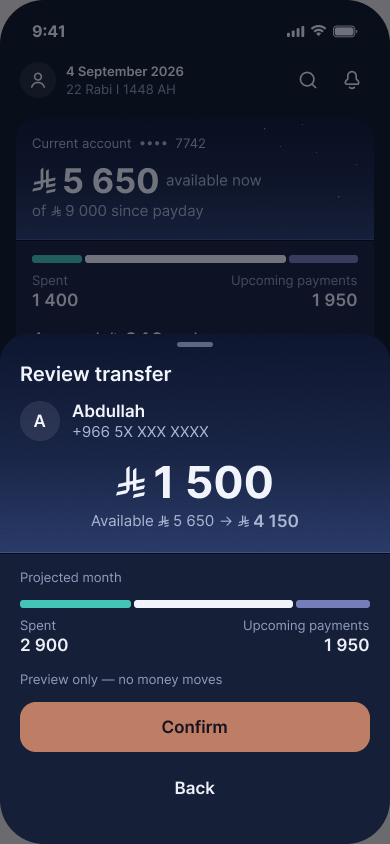
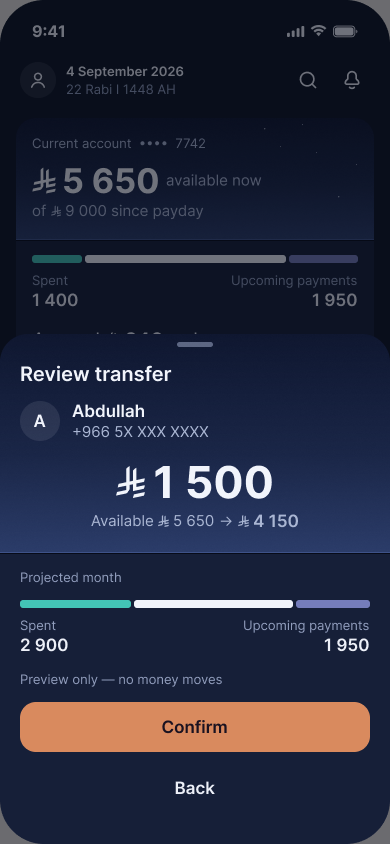
a1-0: эталоны Figma EN Night после a0 (Home, 1, 2, 4) и спека AR
get_screenshot 390×844 по 90:8017, 90:6627, 90:6784, 90:7233. Против старых эталонов: кнопка ios/tint #D98A5E, вне кнопки — шум рендера градиентов (≤ 5/255). Остальные эталоны не трогал.
docs/tasks/ufuq-dunes-ar.md — спека арабской версии.

Changed region(s): [[0.0308, 0.8318, 0.9538, 0.8934]]

diff --git a/docs/tasks/ufuq-dunes-ar.md b/docs/tasks/ufuq-dunes-ar.md
@@ -1,0 +1,49 @@
+# Ufuq v2 «Дюны» — арабская версия в прототипе (ufuq-dunes)
+
+Цель: добавить в ufuq-dunes арабскую версию, которая **совпадает с AR-фреймами Figma Page 2** один в один.
+
+**Шаг a0 (до AR, отдельный коммит):** в Figma изменён ночной цвет CTA — переменные `ios/tint` и `accent/clay`, режим Dunes Night: #BE7E65 → **#D98A5E** (текст #1A1220 без изменений). Обновить токен в коде, эталон контраста CTA ночью 6,73 (день 4,81 без изменений). Кадры EN Night до/после: меняется только кнопка, остальное попиксельно то же. СТОП.
+
+После a0 английская версия больше не меняется ни на пиксель. Правило из CLAUDE.md в силе: вид — только из Figma; поведения, которого нет в кадрах, код не придумывает — спросить Баатра.
+
+## Источник правды — Figma (Figma MCP)
+Файл: https://www.figma.com/design/McEpqCTJzqND3gyGahm4ry — страница **Page 2**, ряды с суффиксом «· AR» (ночь y=1900, день y=2850).
+
+| Состояние | Night · AR | Day · AR |
+|---|---|---|
+| Home | 119:4082 | 122:3172 |
+| 1 · Enter amount | 119:4317 | 122:3402 |
+| 2 · Confirm | 119:4630 | 122:3710 |
+| 3 · Calculating impact | 119:4917 | 122:3992 |
+| 4 · Projected impact | 119:4963 | 122:4028 |
+| 5 · Not enough money | 119:5037 | 122:4092 |
+| 6 · Above channel limit | 119:5352 | 122:4402 |
+
+Фреймы выше y=0 («font test», «CTA test») — черновики сравнения, их НЕ переносить.
+Цвета — те же переменные «Fluid / tokens», режимы Dunes Day / Dunes Night.
+
+## Что входит
+- **Переключатель языка** в панели витрины: Language — EN / AR (как в v1). `?lang=en|ar`, по умолчанию EN. Переключение сохраняет тему и состояние.
+- **Шрифт:** Readex Pro (Google Fonts, OFL) — self-host в `/fonts`. Стили — группа текстовых стилей **AR/** в Figma (кегль, интерлиньяж, начертание Regular/Medium/SemiBold/Bold). Версию шрифта подобрать так же, как с Inter: замерить ширины ≥10 строк против Figma, расхождение > 1 px — красным.
+- Латиница в AR-экранах («9:41», «+966 5X XXX XXXX», «7742») — Inter, как во фреймах.
+- **Тексты** — дословно из AR-фреймов (не переводить в коде, не брать из v1).
+- **Цифры** — восточно-арабские, тысячи через «٬», как во фреймах. Клавиатура в AR вводит восточно-арабские цифры; логика суммы та же (> 5 650 → 5, > 2 500 → 6).
+- **Зеркалирование** — по геометрии AR-фреймов. Можно `dir="rtl"` + логические свойства, но приёмка — по координатам Figma, не по «как браузер развернул». Клавиатура НЕ зеркалится (1-2-3 слева направо), но иконка ⌫ (backspace пака Наера) в AR отражена по горизонтали — как во фрейме (так делает iOS с delete.left в RTL). Строка состояния в AR зеркальна: время справа. Знак риала — с той стороны числа, как во фрейме.
+- **Поведение и движение** — как в EN (переходы, тайминги, 3 → 4 через 1500 мс, reduced motion).
+
+## Приёмка
+1. Лист сверки 14 AR-состояний: PNG приложения 390×844 рядом с `get_screenshot` фрейма + наложение 50%. Расхождение > 2 px или цвета — красным, не чинить молча.
+2. Стражи расширить на AR: геометрия, цвета, контраст (те же пороги), зоны ≥ 44, логика суммы на границах в AR, плюс новый: ни один текст не выходит за свой контейнер.
+3. **EN не изменился** (после a0): 14 EN-состояний до/после AR-работы — попиксельно одинаковы.
+4. `?lang=ar&theme=…&state=…` открывает нужное состояние.
+
+## Шаги (каждый — СТОП после кадров)
+- **a1:** переключатель языка, Readex Pro + замер ширин, Home AR обе темы. Лист сверки для Home.
+- **a2:** шторка AR: состояния 1, 2, 5, 6 + клавиатура.
+- **a3:** состояния 3, 4; полный лист сверки 14 AR; стражи; проверка EN до/после; команды в `C:\Users\ADMIN\Desktop\ufuq-case-review\deploy-dunes.txt`.
+
+## Правила
+- Прод деплоит только Баатр. Никакого `vercel --prod`.
+- Репо ufuq-cove-share (v1) не трогать. Портфолио (baatr.vercel.app) не трогать.
+- Если во фрейме что-то выглядит как ошибка (обрезано, не на месте) — не чинить в коде, а записать в отчёт: правим сначала Figma.
+- Отчёт по пунктам этого файла.
